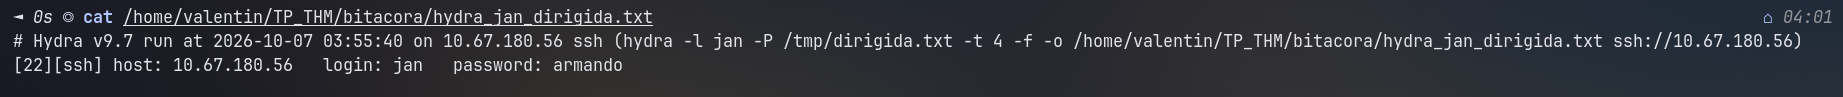
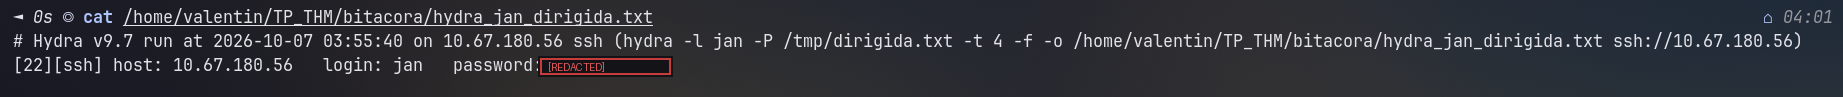
seguridad: censura la credencial en bitacora/hydra_jan_dirigida.txt y en la captura H-07; informe y PDF regenerados (coherentes con [REDACTED])

Changed region(s): [[0.2784, 0.5567, 0.3711, 0.8041]]

diff --git a/reportes/informe_pentesting.html b/reportes/informe_pentesting.html
@@ -1,15 +1,11 @@
-<!DOCTYPE html>
-<html lang="es"><head><meta charset="utf-8">
-<title>Informe de Pentesting — A08 — Valentin Moya</title>
-<style>
+<!DOCTYPE html><html lang="es"><head><meta charset="utf-8">
+<title>Informe de Pentesting — A08 — Valentin Moya</title><style>
 @page { size: A4; margin: 18mm 15mm;
   @top-center { content: "Informe de Pentesting — A08 — Valentin Moya (valemoyafernandez)"; font-size: 8pt; color: #6b7c88; }
-  @bottom-center { content: "Página " counter(page) " de " counter(pages); font-size: 8pt; color: #6b7c88; }
-}
+  @bottom-center { content: "Página " counter(page) " de " counter(pages); font-size: 8pt; color: #6b7c88; } }
 body { font-family: "DejaVu Sans", Arial, sans-serif; font-size: 10.5pt; line-height: 1.45; color: #1a1a1a; margin: 0; }
 h1 { font-size: 20pt; color: #0b3d5c; border-bottom: 3px solid #0b3d5c; padding-bottom: 6px; }
-h2 { font-size: 14pt; color: #0b3d5c; margin-top: 26px; border-bottom: 1px solid #c8d6e0;
-     padding-bottom: 4px; page-break-after: avoid; }
+h2 { font-size: 14pt; color: #0b3d5c; margin-top: 26px; border-bottom: 1px solid #c8d6e0; padding-bottom: 4px; page-break-after: avoid; }
 h3 { font-size: 12pt; color: #14567a; margin-top: 18px; page-break-after: avoid; }
 table { border-collapse: collapse; width: 100%; margin: 10px 0 16px; font-size: 9.5pt; }
 th, td { border: 1px solid #b9c7d1; padding: 6px 8px; text-align: left; vertical-align: top; }
@@ -19,8 +15,7 @@ code { background: #f2f4f6; padding: 1px 4px; border-radius: 3px; font-size: 9pt
 pre { background: #f6f8fa; border: 1px solid #dde3e8; padding: 10px; border-radius: 5px; font-size: 9pt; white-space: pre-wrap; }
 blockquote { border-left: 4px solid #0b3d5c; margin: 12px 0; padding: 6px 14px; background: #f4f8fb; color: #334; }
 hr { border: none; border-top: 1px solid #d5dee5; margin: 22px 0; }
-li { margin: 3px 0; }
-strong { color: #0b3d5c; }
+li { margin: 3px 0; } strong { color: #0b3d5c; }
 </style></head>
 <body><h1>Informe de Pentesting — Actividad A08</h1>
 <p><strong>Cliente:</strong> INSECUR S.A.
@@ -563,7 +558,7 @@ técnico para los controles web de Vulnversity y NIST SP 800-115 aporta el rigor
 </tr>
 <tr>
 <td>Evidencia (captura / comando)</td>
-<td><code>hydra -l jan -P &lt;lista&gt; -t 4 -f ssh://&lt;IP&gt;</code> → <code>login: jan password: ***</code> (ver <code>evidencias/explotacion/</code>)</td>
+<td><code>hydra -l jan -P &lt;lista&gt; -t 4 -f ssh://&lt;IP&gt;</code> → <code>login: jan password: [REDACTED]</code> (ver <code>evidencias/explotacion/explotacion_H-07_hydra_resultado.png</code>)</td>
 </tr>
 <tr>
 <td>Herramienta utilizada</td>
@@ -1005,7 +1000,7 @@ equivocada interrumpa la conectividad de la red corporativa.</p>
 <tr>
 <td><code>explotacion/explotacion_H-07_hydra_resultado.png</code></td>
 <td>H-07</td>
-<td>hydra → <code>login: jan password: ***</code> (credencial recuperada)</td>
+<td>hydra → <code>login: jan password: [REDACTED]</code> (credencial recuperada, censurada)</td>
 </tr>
 <tr>
 <td><code>post/post_H-09_root.png</code></td>

diff --git a/reportes/informe_pentesting.md b/reportes/informe_pentesting.md
@@ -203,7 +203,7 @@ técnico para los controles web de Vulnversity y NIST SP 800-115 aporta el rigor
 | Categoría (CWE) | CWE-521 (Weak Password Requirements) / OWASP A07:2021 |
 | CVE (si aplica) | — |
 | CVSS estimado | ☐ Bajo ☐ Medio ☑ Alto ☐ Crítico |
-| Evidencia (captura / comando) | `hydra -l jan -P <lista> -t 4 -f ssh://<IP>` → `login: jan password: ***` (ver `evidencias/explotacion/`) |
+| Evidencia (captura / comando) | `hydra -l jan -P <lista> -t 4 -f ssh://<IP>` → `login: jan password: [REDACTED]` (ver `evidencias/explotacion/explotacion_H-07_hydra_resultado.png`) |
 | Herramienta utilizada | hydra 9.7 |
 | Impacto en la tríada CIA | ☑ Confidencialidad ☑ Integridad ☑ Disponibilidad |
 | Salvaguarda propuesta | Longitud mínima y rotación de contraseñas; deshabilitar autenticación por contraseña en SSH y usar solo claves públicas; instalar fail2ban/MaxAuthTries. |
@@ -410,7 +410,7 @@ Carpeta `evidencias/` con subcarpetas por fase (`reconocimiento`, `escaneo`, `ex
 | `reconocimiento/reconocimiento_H-07_sala_basic_ip.png` | H-07 | Sala Basic Pentesting con IP `10.67.180.56` |
 | `escaneo/escaneo_H-11_nmap_vulnversity.png` | H-11 | `nmap -sC -sV -p-` sobre Vulnversity |
 | `escaneo/escaneo_H-05_form_upload.png` | H-05 | Formulario Upload en `:3333/internal/index.php` |
-| `explotacion/explotacion_H-07_hydra_resultado.png` | H-07 | hydra → `login: jan password: ***` (credencial recuperada) |
+| `explotacion/explotacion_H-07_hydra_resultado.png` | H-07 | hydra → `login: jan password: [REDACTED]` (credencial recuperada, censurada) |
 | `post/post_H-09_root.png` | H-09 | `uid=0(root)` + `ls -la /root/` con `flag.txt` (credencial redactada) |
 
 ### Anexo C — Hashes de las flags obtenidas
